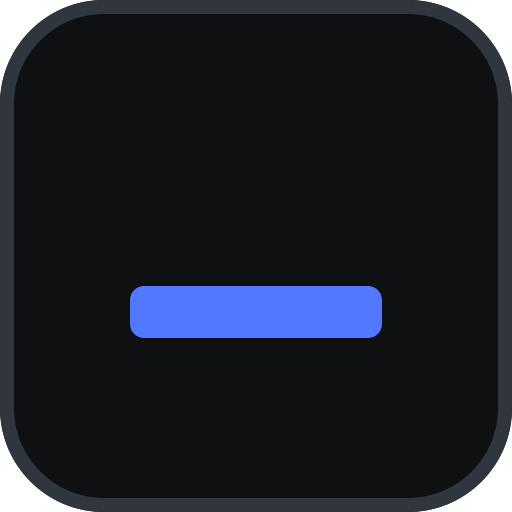
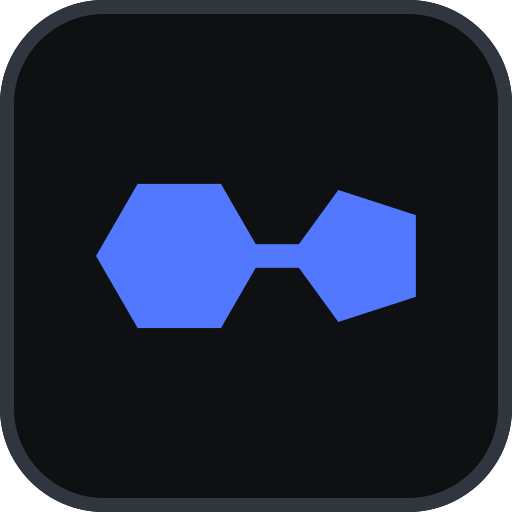
Build the brand mark from medetomidine
The ecosystem name encodes a drug — medeetomipod / medeetomihub /
medeetomilab reads as medetomidine — so the mark is the actual molecule
rather than an abstract glyph: 5-[1-(2,3-dimethylphenyl)ethyl]-1H-imidazole.

Chemistry verified on screen, not just in code: benzene with alternating
aromatic double bonds, methyls on adjacent carbons (2,3-dimethyl), the ethyl
linker carrying its methyl on the chiral carbon, and imidazole with C4=C5 and
C2=N3 doubles, N1 carrying the H.

Nitrogen is drawn in the cobalt accent. That is not decoration — blue for N
is standard heteroatom convention, so the product's single accent colour is
doing real chemical work.

Two scales, because one drawing cannot do both jobs:
- MedetomidineStructure — full skeletal formula, on the auth screen where it
  has room to be legible.
- MoleculeGlyph — ring topology only, in the header beside the wordmark; a
  full structure turns to mud at 14px.
- App icon / favicon — same topology but filled rather than outlined, since
  outlines collapse at 16px while a silhouette stays crisp. Regenerated
  icon.png, apple-icon.png and a multi-size favicon.ico (16/32/48).

No wedge bond is asserted. Dexmedetomidine, the clinical enantiomer, has an
identical skeleton and differs only in stereochemistry, so the drawing is
honest for both rather than silently claiming one.

Changed region(s): [[0.1875, 0.3438, 0.8125, 0.6875]]

diff --git a/components/brand/medetomidine.tsx b/components/brand/medetomidine.tsx
@@ -1,0 +1,201 @@
+import { cn } from "@/lib/utils";
+
+/**
+ * The ecosystem mark is the molecule its name encodes: medetomidine,
+ * 5-[1-(2,3-dimethylphenyl)ethyl]-1H-imidazole — an alpha-2 adrenergic agonist.
+ * (Dexmedetomidine, the clinical enantiomer, has the identical skeleton and
+ * differs only by stereochemistry at the linker carbon, so this drawing serves
+ * both; no wedge is asserted.)
+ *
+ * Two scales, because one drawing cannot do both jobs:
+ *   MoleculeGlyph       ring topology only — survives a 16px favicon.
+ *   MedetomidineStructure  the full skeletal formula — for brand moments.
+ *
+ * Nitrogen is drawn in the accent colour, which is not decoration: blue for N
+ * is standard heteroatom convention, so the one accent in the product is doing
+ * real chemical work.
+ */
+
+type P = [number, number];
+
+// ---- benzene: centre (32,52), r=15, vertices every 60deg from -90 ----------
+// 1 = linker attachment, 2 and 3 = the methyls (ortho/meta, hence 2,3-dimethyl)
+const BZ: P[] = [
+  [32, 37],       // 0  top
+  [44.99, 44.5],  // 1  C1 -> linker
+  [44.99, 59.5],  // 2  C2 -> methyl
+  [32, 67],       // 3  C3 -> methyl
+  [19.01, 59.5],  // 4
+  [19.01, 44.5],  // 5
+];
+const BZ_BONDS: [number, number][] = [[0, 1], [1, 2], [2, 3], [3, 4], [4, 5], [5, 0]];
+const BZ_DOUBLE = new Set(["0-1", "2-3", "4-5"]);
+const BZ_CENTRE: P = [32, 52];
+
+// ---- imidazole: centre (80,48), r=13 ---------------------------------------
+// ring order N1-C2-N3-C4-C5; attachment at C5; aromatic doubles C2=N3, C4=C5
+const IM: P[] = [
+  [67, 48],       // 0  C5 -> attachment
+  [75.98, 35.64], // 1  C4
+  [90.52, 40.36], // 2  N3
+  [90.52, 55.64], // 3  C2
+  [75.98, 60.36], // 4  N1 (the NH)
+];
+const IM_BONDS: [number, number][] = [[0, 1], [1, 2], [2, 3], [3, 4], [4, 0]];
+const IM_DOUBLE = new Set(["0-1", "2-3"]);
+const IM_CENTRE: P = [80, 48];
+const N_ATOMS = new Set([2, 4]);
+
+const C_ALPHA: P = [58, 38];        // chiral carbon
+const C_ALPHA_ME: P = [58, 23];     // its methyl
+const ME_2: P = [58, 67];           // methyl on C2
+const ME_3: P = [32, 82];           // methyl on C3
+
+/** Pull a bond back from an atom centre so it never collides with its label. */
+function trim(a: P, b: P, fromA: number, fromB: number): [P, P] {
+  const [dx, dy] = [b[0] - a[0], b[1] - a[1]];
+  const len = Math.hypot(dx, dy) || 1;
+  const [ux, uy] = [dx / len, dy / len];
+  return [
+    [a[0] + ux * fromA, a[1] + uy * fromA],
+    [b[0] - ux * fromB, b[1] - uy * fromB],
+  ];
+}
+
+/** Inner line of a double bond, offset toward the ring centre and shortened. */
+function innerBond(a: P, b: P, centre: P, offset = 3.4, shrink = 0.18): [P, P] {
+  const mid: P = [(a[0] + b[0]) / 2, (a[1] + b[1]) / 2];
+  const [vx, vy] = [centre[0] - mid[0], centre[1] - mid[1]];
+  const len = Math.hypot(vx, vy) || 1;
+  const [ox, oy] = [(vx / len) * offset, (vy / len) * offset];
+  const sa: P = [a[0] + (b[0] - a[0]) * shrink, a[1] + (b[1] - a[1]) * shrink];
+  const sb: P = [b[0] - (b[0] - a[0]) * shrink, b[1] - (b[1] - a[1]) * shrink];
+  return [[sa[0] + ox, sa[1] + oy], [sb[0] + ox, sb[1] + oy]];
+}
+
+function Ring({
+  atoms,
+  bonds,
+  doubles,
+  centre,
+  heteroatoms,
+}: {
+  atoms: P[];
+  bonds: [number, number][];
+  doubles: Set<string>;
+  centre: P;
+  heteroatoms?: Set<number>;
+}) {
+  return (
+    <>
+      {bonds.map(([i, j]) => {
+        const gapI = heteroatoms?.has(i) ? 6 : 0;
+        const gapJ = heteroatoms?.has(j) ? 6 : 0;
+        const [a, b] = trim(atoms[i], atoms[j], gapI, gapJ);
+        const isDouble = doubles.has(`${i}-${j}`) || doubles.has(`${j}-${i}`);
+        const pair = isDouble ? innerBond(atoms[i], atoms[j], centre) : null;
+        return (
+          <g key={`${i}-${j}`}>
+            <line x1={a[0]} y1={a[1]} x2={b[0]} y2={b[1]} />
+            {pair && (
+              <line x1={pair[0][0]} y1={pair[0][1]} x2={pair[1][0]} y2={pair[1][1]} />
+            )}
+          </g>
+        );
+      })}
+    </>
+  );
+}
+
+/**
+ * Full skeletal formula. Scales with font-size-independent stroke; carbon
+ * skeleton inherits currentColor, nitrogen takes the accent.
+ */
+export function MedetomidineStructure({
+  className,
+  title = "Medetomidine",
+}: {
+  className?: string;
+  title?: string;
+}) {
+  const linker: [P, P][] = [
+    [BZ[1], C_ALPHA],
+    [C_ALPHA, C_ALPHA_ME],
+    [BZ[2], ME_2],
+    [BZ[3], ME_3],
+  ];
+  const [toRing] = [trim(C_ALPHA, IM[0], 0, 0)];
+
+  return (
+    <svg
+      viewBox="10 14 96 78"
+      role="img"
+      aria-label={title}
+      className={cn("overflow-visible", className)}
+      fill="none"
+      stroke="currentColor"
+      strokeWidth={1.6}
+      strokeLinecap="round"
+    >
+      <title>{title}</title>
+      <Ring atoms={BZ} bonds={BZ_BONDS} doubles={BZ_DOUBLE} centre={BZ_CENTRE} />
+      <Ring
+        atoms={IM}
+        bonds={IM_BONDS}
+        doubles={IM_DOUBLE}
+        centre={IM_CENTRE}
+        heteroatoms={N_ATOMS}
+      />
+      {linker.map(([a, b], i) => (
+        <line key={i} x1={a[0]} y1={a[1]} x2={b[0]} y2={b[1]} />
+      ))}
+      <line x1={toRing[0][0]} y1={toRing[0][1]} x2={toRing[1][0]} y2={toRing[1][1]} />
+
+      {/* heteroatoms — blue per convention, not for decoration */}
+      <g
+        stroke="none"
+        fill="var(--signal)"
+        fontSize="9"
+        fontFamily="var(--font-geist-mono), ui-monospace, monospace"
+        textAnchor="middle"
+        dominantBaseline="central"
+      >
+        <text x={IM[2][0]} y={IM[2][1]}>N</text>
+        <text x={IM[4][0]} y={IM[4][1]}>N</text>
+        <text x={IM[4][0] - 1} y={IM[4][1] + 9} fontSize="7">H</text>
+      </g>
+    </svg>
+  );
+}
+
+// ---- icon-scale glyph: ring topology only ----------------------------------
+const HEX: P[] = [
+  [34, 32], [28, 42.39], [16, 42.39], [10, 32], [16, 21.61], [28, 21.61],
+];
+const PENT: P[] = [
+  [38, 32], [44.91, 22.49], [56.09, 26.12], [56.09, 37.88], [44.91, 41.51],
+];
+
+/**
+ * Abstracted to the molecule's topology — aryl ring, linker, imidazole — so it
+ * still reads at favicon size where a full structure turns to mud.
+ */
+export function MoleculeGlyph({ className }: { className?: string }) {
+  return (
+    <svg
+      viewBox="4 14 60 36"
+      role="img"
+      aria-label="studyex_medeetomipod"
+      className={className}
+      fill="none"
+      stroke="currentColor"
+      strokeWidth={2.4}
+      strokeLinejoin="round"
+      strokeLinecap="round"
+    >
+      <polygon points={HEX.map((p) => p.join(",")).join(" ")} />
+      <polygon points={PENT.map((p) => p.join(",")).join(" ")} />
+      <line x1={34} y1={32} x2={38} y2={32} />
+    </svg>
+  );
+}

diff --git a/components/brand/pod-brand.tsx b/components/brand/pod-brand.tsx
@@ -1,5 +1,6 @@
 import { cn } from "@/lib/utils";
 import { DESCRIPTOR, PARENT, PRODUCT } from "@/lib/brand";
+import { MedetomidineStructure, MoleculeGlyph } from "./medetomidine";
 
 type Size = "sm" | "md" | "lg";
 
@@ -8,12 +9,16 @@ const WORD_SIZE: Record<Size, string> = {
   md: "text-[13px]",
   lg: "text-[15px]",
 };
+const GLYPH_SIZE: Record<Size, string> = {
+  sm: "h-3.5",
+  md: "h-4",
+  lg: "h-5",
+};
 
 /**
- * The wordmark IS the logo — a lowercase technical lockup, no pictorial mark.
- * `studyex_` is set in the muted tone so `medeetomipod` reads as the product,
- * and the trailing underscore is the fixed primary treatment (static, not a
- * blinking terminal caret).
+ * The wordmark: lowercase technical lockup. `studyex_` sits in the muted tone
+ * so `medeetomipod` reads as the product, and the trailing underscore is the
+ * fixed primary treatment (static — not a blinking terminal caret).
  */
 export function PodWordmark({
   size = "md",
@@ -37,7 +42,7 @@ export function PodWordmark({
   );
 }
 
-/** Wordmark over its descriptor — the header lockup. */
+/** Header lockup: molecule glyph, wordmark, descriptor. */
 export function PodLogo({
   size = "md",
   descriptor = true,
@@ -48,31 +53,39 @@ export function PodLogo({
   className?: string;
 }) {
   return (
-    <span className={cn("flex flex-col gap-0.5 leading-none", className)}>
-      <PodWordmark size={size} />
-      {descriptor && (
-        <span className="font-mono text-[9px] uppercase tracking-[0.14em] text-muted">
-          {DESCRIPTOR}
-        </span>
-      )}
+    <span className={cn("flex items-center gap-2.5", className)}>
+      <MoleculeGlyph
+        className={cn("w-auto shrink-0 text-muted-strong", GLYPH_SIZE[size])}
+      />
+      <span className="flex flex-col gap-0.5 leading-none">
+        <PodWordmark size={size} />
+        {descriptor && (
+          <span className="font-mono text-[9px] uppercase tracking-[0.14em] text-muted">
+            {DESCRIPTOR}
+          </span>
+        )}
+      </span>
     </span>
   );
 }
 
 /**
- * Centred lockup for auth screens: parent ecosystem, then the product, then
- * what it is. Flat type only — no stripe, no tile, no illustration.
+ * Auth-screen lockup. The full skeletal formula gets room here, where it is
+ * legible — the molecule the ecosystem is named after.
  */
 export function BrandLockup({ className }: { className?: string }) {
   return (
-    <div className={cn("flex flex-col items-center gap-3 text-center", className)}>
-      <span className="font-mono text-[10px] uppercase tracking-[0.2em] text-muted">
-        {PARENT}
-      </span>
-      <PodWordmark size="lg" />
-      <span className="font-mono text-[10px] uppercase tracking-[0.16em] text-muted">
-        {DESCRIPTOR}
-      </span>
+    <div className={cn("flex flex-col items-center gap-4 text-center", className)}>
+      <MedetomidineStructure className="h-20 w-auto text-muted-strong" />
+      <div className="flex flex-col items-center gap-2">
+        <span className="font-mono text-[10px] uppercase tracking-[0.2em] text-muted">
+          {PARENT}
+        </span>
+        <PodWordmark size="lg" />
+        <span className="font-mono text-[10px] uppercase tracking-[0.16em] text-muted">
+          {DESCRIPTOR}
+        </span>
+      </div>
       <span className="sr-only">{PRODUCT}</span>
     </div>
   );
